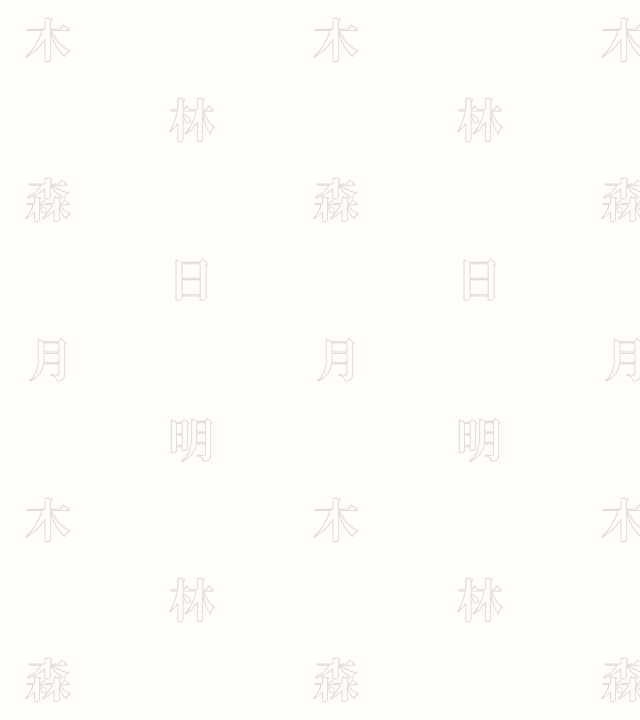
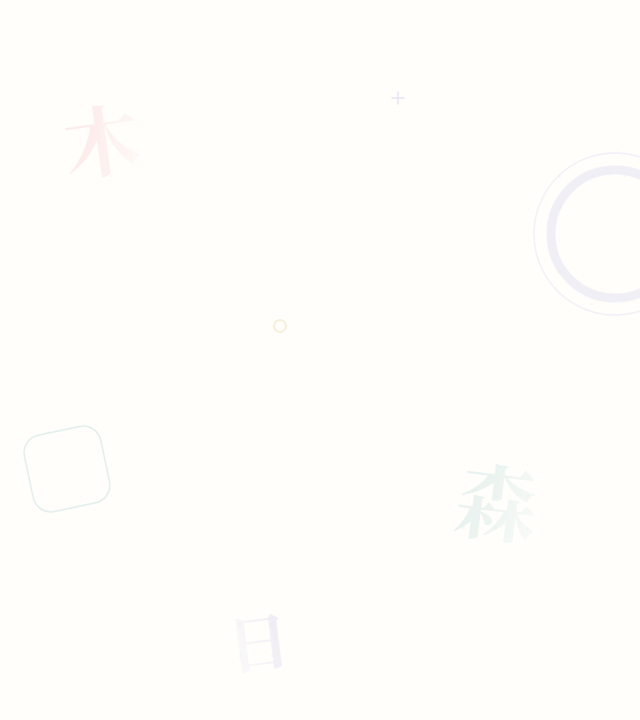
Refine the original pastel background and scattered kanji

diff --git a/src/theme.css b/src/theme.css
@@ -8,7 +8,7 @@
   --green:var(--accent);--muted:#687187;--line:#e8eaf1;
   --coral:var(--accent);--paper:#fff;
 }
-body{background:#fffefa url('/ui-background.svg?v=kanji-print') repeat;background-size:288px 480px}
+body{background:#fffefa url('/ui-background.svg?v=pastel-edges') repeat;background-size:640px 720px}
 #app{position:relative;z-index:1}
 button{font-weight:750}
 button:focus-visible,a:focus-visible,input:focus-visible{outline-color:#5369ef}
@@ -64,7 +64,7 @@ button:active:not(:disabled){transform:translateY(1px)}
 .stat:last-child strong{color:#00a56c}
 .minor-stats{gap:26px}
 .mobile-pause{background:#f6f6f7;border:1px solid #e5e7ec;color:#526078;display:grid;place-items:center}
-.board{background:#fff url('/board-background.svg?v=kanji-print') center / 100% 100% no-repeat;border-radius:0 0 14px 14px;margin:0 -10px;border-bottom:1px solid #ecedf5}
+.board{background:#fff url('/board-background.svg?v=pastel-edges') center / 100% 100% no-repeat;border-radius:0 0 14px 14px;margin:0 -10px;border-bottom:1px solid #ecedf5}
 .board-status{color:#65718b;font-weight:700;font-size:14px;top:18px;right:18px}
 .gesture-cue{position:absolute;top:12px;bottom:auto;left:50%;transform:translateX(-50%);display:flex;align-items:center;gap:9px;color:#5c6f9f;pointer-events:none;white-space:nowrap}.gesture-cue span{font-size:13px;font-weight:750}
 .gesture-cue svg{width:132px;height:34px;display:block}.swipe-hand{animation:swipe-demo 2.4s ease-in-out infinite}

diff --git a/README.md b/README.md
@@ -112,7 +112,7 @@ npm run check:release -- --api https://<Worker URL> --game https://<ゲームURL
 
 PNGは `tools/build-discovery-cards.ts` で生成し，`public/kanji-cards/` に追跡する．再生成には `assets/fonts/README.md` の元フォントと `@napi-rs/canvas` が必要で，`KANJI_CANVAS_MODULE` でそのローカルモジュールのパスを指定して `node --import tsx tools/build-discovery-cards.ts` を実行する．HTMLは `VITE_PUBLIC_URL` が設定されたビルドでViteが生成する．CIでは全共有対象のPNG・寸法・専用リンク・公開メタ情報を検査する．
 
-背景の漢字模様は，同じ `KANJI_CANVAS_MODULE` を指定して `node tools/build-backgrounds.mjs` で再生成する．ゲームの輪郭データから筆画の重なりを統合し，`public/*-background.svg` とPC・スマホ幅の背景単体プレビューを出力する．公開サイトでは静的SVGだけを読み込み，描画用の追加ライブラリや通信は使わない．
+背景の漢字模様は，同じ `KANJI_CANVAS_MODULE` を指定して `node tools/build-backgrounds.mjs` で再生成する．ゲームの輪郭データと淡い赤・紫・青緑の塗りから，`public/*-background.svg` とPC・スマホ幅の背景単体プレビューを出力する．公開サイトでは静的SVGだけを読み込み，描画用の追加ライブラリや通信は使わない．
 
 結果画面・ランキングの自己ベストから「Xでシェア」を押すと，最高到達時の塔と得点を1200×630のPNGにする．WorkerのPOST /sharesで画像と記録を保存し，/s/共有ID の専用リンクを作る．このページは最初のHTMLにXカード・OGPメタ情報を含み，画像URLは /s/共有ID/image.png で返す．リンクを開いた利用者はGAME_URLへ移動して新しいゲームを開始し，JavaScriptが無効でも「遊ぶ」リンクを使える．投稿本文はURL分を含めてXの文字数に収まるよう，作った字の列挙を必要に応じて省略する．Xの投稿確定は利用者が行う．
 

diff --git a/docs/progress.md b/docs/progress.md
@@ -2,8 +2,8 @@
 
 ## 2026-10-22 背景の調整
 
-- 背景の漢字を，淡いグレージュの輪郭線・同じ大きさ・正立した配置に揃えた．「木・林・森・日・月・明」を等間隔で繰り返し，輪・四角・点などの別々の飾りをなくした．盤面では中央・上端・下端に向かって薄くし，ゲームの字と重なる場所を白く保つ．
-- 背景SVGを横長・縦長に引き伸ばさず，端末の縦横比が変わっても漢字の形を保つようにした．元の字体の重なる筆画は統合してから輪郭にする．生成は `tools/build-backgrounds.mjs`，目視用の背景画像は `docs/*background*preview.png` に保存する．
+- 利用者の希望に合わせ，背景は以前の淡い赤・紫・青緑と，左右に漢字・輪・四角を散らした配置を生かす．盤面は左上に「木」，右側に「林」，左下に「森」を置き，前の大きさから約15%小さくした．漢字の塗りを盤面中央側へ淡くすることで，図形と白い背景に馴染ませる．中央の余白と，森・輪が重ならない配置を維持する．
+- 漢字と図形を端末サイズに合わせた独立したSVG領域に収め，縦横比を保って縮小する．生成は `tools/build-backgrounds.mjs`，目視用の背景画像は `docs/*background*preview.png` に保存する．
 
 ## 2026-10-21 現在
 

diff --git a/docs/release-record.md b/docs/release-record.md
@@ -64,7 +64,7 @@ npx wrangler deploy --dry-run --outdir dist-worker --env dev # 開発環境
 
 ## 背景の調整（2026-10-22）
 
-背景をグレージュの漢字の輪郭による反復模様へ変更した．色・大きさ・向きを統一し，盤面中央と上下端では淡く消えるようにした．SVGに漢字の形を埋め込み，縦横比に合わせて字形が伸びないようにした．古い背景キャッシュを使わないようCSSの画像URLに版を付けた．
+利用者の希望に合わせ，以前の淡い赤・紫・青緑と，左右に漢字と図形を散らした配置を採用した．漢字を少し小さくし，塗りを中央側へ淡くして白地に馴染ませる．SVGに漢字の形を埋め込み，端末に合わせて字形が伸びないよう個別の領域で縮小する．古い背景キャッシュを使わないようCSSの画像URLに版を付けた．
 
 背景単体を640×720，560×700，360×500で生成して確認し，公開URL付きの `npm run build` が成功した．今回の目視確認は背景アセットの確認であり，実機ブラウザー画面の操作確認ではない．
 
